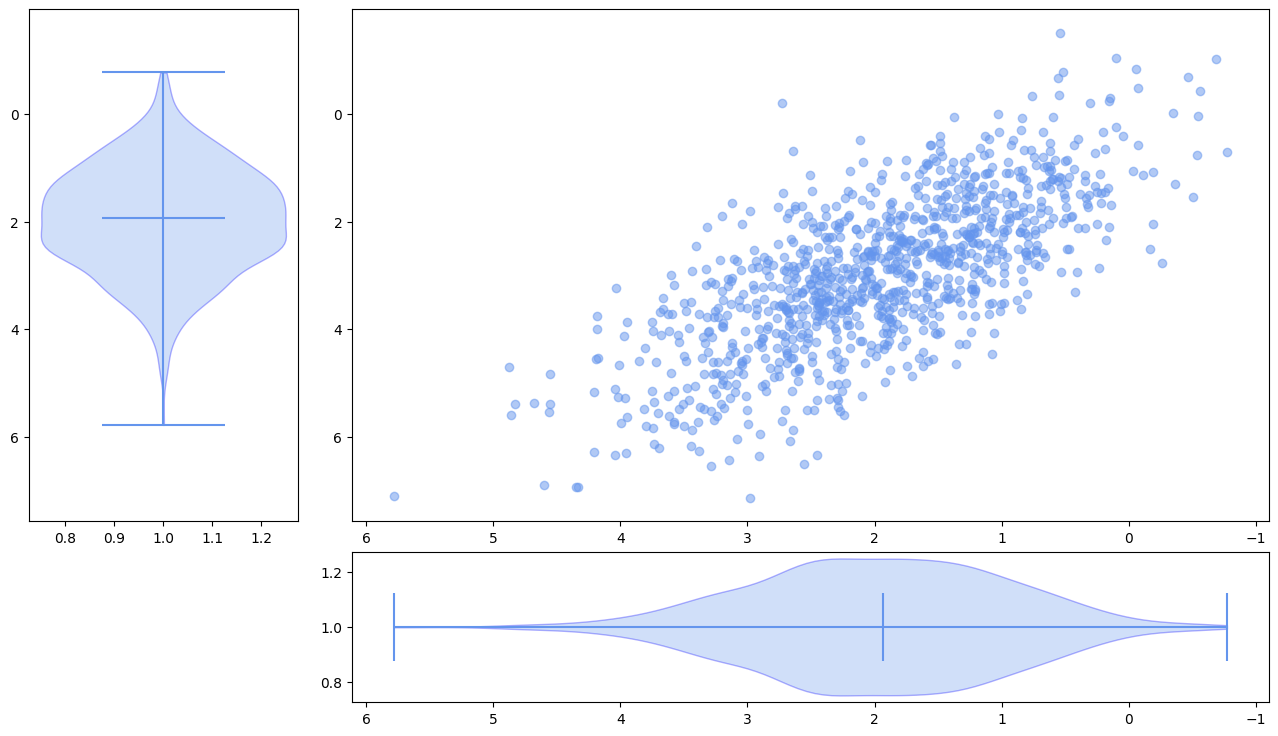
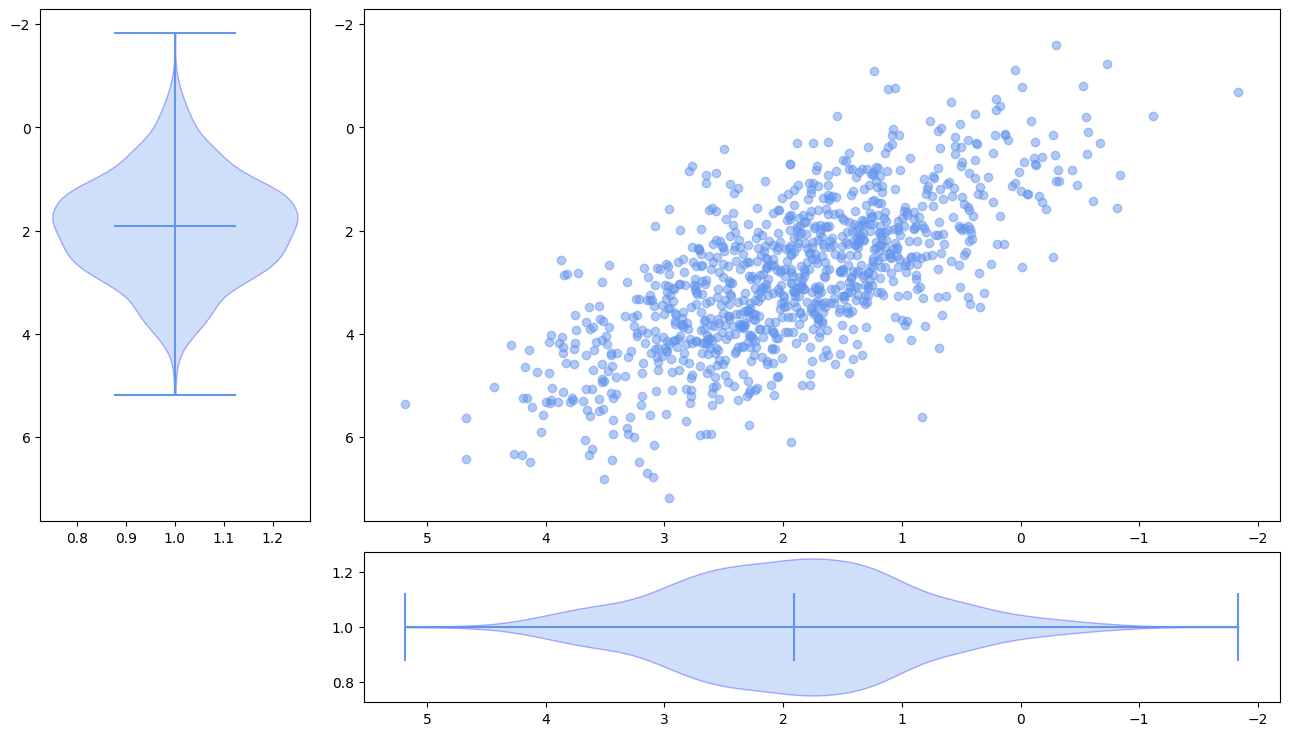
POCHEMU

diff --git a/homeworks/sem2_hw1/Algorithms.py b/homeworks/sem2_hw1/Algorithms.py
@@ -1,7 +1,7 @@
 from typing import Union, Callable, Any
 import numpy as np
 
-from utils.models import SotingKeys
+from utils.models import OutliersSettings
 
 def Core(x):
     return 3/4 * (1 - x ** 2) * (abs(x) <= 1)
@@ -92,30 +92,15 @@ class KNN:
 
 
 def get_boxplot_outliers(
-    data: np.ndarray,
-    key: Callable[[Any], Any] = 'quicksort'
+    data: np.ndarray,   
+    key: Callable[[Any], Any],
+    settings: OutliersSettings = OutliersSettings(),
 ) -> np.ndarray:
-    if key not in [i.value for i in SotingKeys]:
-        raise ValueError("Invalid sorting key")
-    else:
-        pass  # vs code не читает дальше функцию ьез этой строчки :'(
+    index_sorted = np.argsort(np.apply_along_axis(key, -1, data))
+    data_sorted = np.sort(np.apply_along_axis(key, -1, data))
+    
+    q1 = data_sorted[int(data.shape[0] * settings._low_border)]
+    q3 = data_sorted[int(data.shape[0] * settings._high_border)]
+    e = (q3 - q1) * settings._epsilon
 
-    if len(data.shape) == 1:
-        data = data.reshape(data.shape[0], 1)
-
-    key = np.vectorize(key)
-    data_sorted = key(data.copy())
-
-    q1 = np.array(data_sorted[int(data_sorted.size * 0.25)])
-    q3 = np.array(data_sorted[int(data_sorted.size * 0.75)])
-
-    e = (q3 - q1) * 1.5
-    lower_border = np.where(data >= q1 - e, 1, 0)
-    lower_border = np.where(np.sum(lower_border, axis=1) != lower_border.shape[1], 0, 1)
-    upper_border = np.where(data <= q3 + e, 1, 0)
-    upper_border = np.where(np.sum(upper_border, axis=1) != lower_border.shape[1], 0, 1)
-    result = np.where(lower_border + upper_border == 2, 1, 0)
-
-    # result = np.where((data <= q1 - e) or (data >= q3 + e), 1, 0)
-
-    return np.argwhere(result == 1)[:, 0]
+    return np.sort(index_sorted[np.add(data_sorted < q1 - e, data_sorted > q3 + e)])

diff --git a/homeworks/sem2_hw1/DEMOboxplot.py b/homeworks/sem2_hw1/DEMOboxplot.py
@@ -1,14 +1,27 @@
 import numpy as np
 import matplotlib.pyplot as plt
 from utils.random_seed import freeze_random_seed
+from itertools import cycle
 from Algorithms import get_boxplot_outliers
+from utils.visualize import visualize_distribution
+
 
 def main():
     freeze_random_seed()
     mean = [2, 3]
     cov = [[1, 1], [1, 2]]
-    data = np.random.multivariate_normal(mean, cov, size=1000)
+    data = np.random.multivariate_normal(mean, cov, size=1000).T
 
-    figure = plt.figure(figsize=(16, 9))
+    figure, axis = plt.subplots(figsize=(16, 9))
+
+    outliers = get_boxplot_outliers(data, lambda x: x)
+    print(data.shape)
+    print(outliers)
+    print(outliers.shape)
+    axis.scatter(data[0], data[1], color = 'cornflowerblue', alpha = 0.5)
+    axis.scatter(data[0][outliers], data[1][outliers], color="r", alpha=0.5)
+    plt.show()
+    # visualize_distribution(axis, data[0][mask[0]], 'hist')
+
 
 main()

diff --git a/homeworks/sem2_hw1/utils/models.py b/homeworks/sem2_hw1/utils/models.py
@@ -1,7 +1,7 @@
 from enum import Enum
 
 
-class SotingKeys(Enum):
+class SortingKeys(Enum):
     QUICKSORT = 'quicksort'
     MERGESORT = 'mergesort'
     HEAPSORT = 'heapsort'
@@ -52,6 +52,21 @@ class ComparisonSettings:
         self._fontweight = fontweight
         self._title_color = title_color
         self._colors = colors
+
+
+class OutliersSettings:
+    _low_border: int
+    _high_border: int
+    _epsilon: int
+    def __init__(
+        self,
+        low_border=0.25,
+        high_border=0.75,
+        epsilon=1.5
+    ):
+        self._low_border = low_border
+        self._high_border = high_border
+        self._epsilon = epsilon
 
 
 class HistogramSettings:
